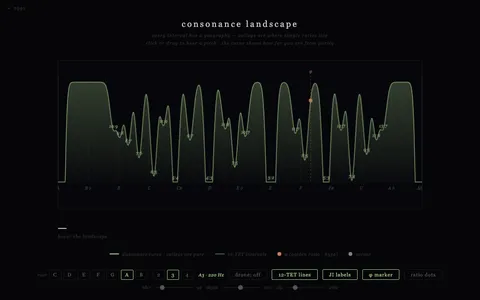
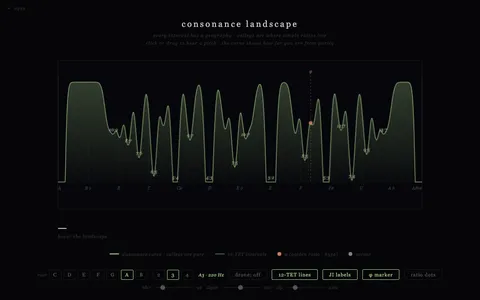
consonance: true meta, audible valleys, 15:8 and 13:8 at the default depth (audit 09-30 B-consonance-1, -2, -3, -4)
Meta said irrational intervals ride the hills; ET 700c sits at 3.3% of the
range, so nearness to a simple ratio is what the curve shows. Drone and
cursor now use the house strings tone (a sine dyad has no partials to beat,
so no valley could be heard); peak still 0.30. Depth 120 (max 240, reaching
16:15), a one-line legend, labels that no longer overlap, A8ve kept inside,
hidden tab mutes.

diff --git a/eggs/consonance.html b/eggs/consonance.html
@@ -3,7 +3,7 @@
 <head>
   <meta charset="UTF-8">
   <meta name="viewport" content="width=device-width, initial-scale=1.0">
-  <meta name="description" content="a dissonance landscape across the octave — simple ratios sink into valleys, irrational intervals ride the hills, and every point is playable by drag">
+  <meta name="description" content="a dissonance landscape across the octave · simple ratios sink into valleys, intervals far from any simple ratio ride the hills, and every point is playable by drag">
   <link rel="icon" type="image/png" sizes="32x32" href="../assets/favicon-32.png">
   <link rel="icon" type="image/png" sizes="16x16" href="../assets/favicon-16.png">
   <link rel="apple-touch-icon" href="../assets/apple-touch-icon.png">
@@ -204,7 +204,7 @@
 <div class="header">
   <h1 class="title">consonance landscape</h1>
   <p class="sub">
-    every interval has a geography &mdash; valleys are where simple ratios live<br>
+    every interval has a geography · valleys are where simple ratios live<br>
     click or drag to hear a pitch · the curve shows how far you are from purity
   </p>
 </div>
@@ -272,8 +272,8 @@
   </div>
   <div class="slider-row">
     depth
-    <input type="range" class="ctrl-range" id="depth-slider" min="4" max="200" value="100">
-    <span id="depth-val">100</span>
+    <input type="range" class="ctrl-range" id="depth-slider" min="4" max="240" value="120">
+    <span id="depth-val">120</span>
   </div>
   <div class="slider-row">
     clip
@@ -282,7 +282,7 @@
   </div>
 </div>
 
-<p class="hint">drag across the landscape · the valleys are where ears rest · esc mutes</p>
+<p class="hint">each ratio p/q digs a valley 1/(p·q) deep · blur = valley width in cents · depth = largest p·q included<br>drag across the landscape with the drone on · near a valley the two tones beat, in it they settle · esc mutes</p>
 
 <script>
 // ── JI ratio library ──────────────────────────────────────
@@ -379,7 +379,7 @@ function buildNearestTable(ratios, nSamples) {
 const N_FULL   = 1200; // curve resolution at rest
 const N_COARSE = 300;  // …and while a slider thumb is moving
 
-let ratios = buildRatios(100); // need height≥88 for 11:8 (11×8=88)
+let ratios = buildRatios(120); // 120 reaches 11:8 (88), 13:8 (104) and 15:8 (120)
 let sigma  = 9;
 let N      = N_FULL;
 let landscape, nearestTable;
@@ -405,9 +405,18 @@ const NOTE_BASE = { C:130.813, D:146.832, E:164.814, F:174.614, G:195.998, A:220
 let droneNote = 'A', droneOct = 3;
 function getDroneFreq() { return NOTE_BASE[droneNote] * Math.pow(2, droneOct - 3); }
 
+// Both voices use the house "strings" tone (eight harmonics). Two pure
+// sines have no partials to coincide, so a sine dyad sounds the same at
+// 5:4 as at 400¢ and the valleys can't be heard. With harmonics, a
+// near-miss beats where partials almost meet and the beating stops in
+// the valley. createPeriodicWave normalizes to a peak of 1, so levels
+// are unchanged: drone 0.18 + cursor 0.12 still peaks at 0.30.
+const TONE = [0, 1, 0.55, 0.38, 0.27, 0.2, 0.15, 0.11, 0.08];
+let toneWave = null;
 function initAudio() {
   if (ac) return;
   ac = new (window.AudioContext || window.webkitAudioContext)();
+  toneWave = ac.createPeriodicWave(new Float32Array(TONE.length), new Float32Array(TONE));
 }
 
 function startDrone() {
@@ -415,7 +424,7 @@ function startDrone() {
   if (ac.state === 'suspended') ac.resume();
   droneOsc = ac.createOscillator();
   droneGain = ac.createGain();
-  droneOsc.type = 'sine';
+  droneOsc.setPeriodicWave(toneWave);
   droneOsc.frequency.value = getDroneFreq();
   droneGain.gain.setValueAtTime(0, ac.currentTime);
   droneGain.gain.setTargetAtTime(0.18, ac.currentTime, 0.05);
@@ -444,7 +453,7 @@ function setCursorPitch(cents) {
   if (!cursorOsc) {
     cursorOsc = ac.createOscillator();
     cursorGain = ac.createGain();
-    cursorOsc.type = 'sine';
+    cursorOsc.setPeriodicWave(toneWave);
     cursorOsc.frequency.value = freq;
     cursorGain.gain.setValueAtTime(0, ac.currentTime);
     cursorGain.gain.setTargetAtTime(0.12, ac.currentTime, 0.02);
@@ -543,7 +552,8 @@ function draw() {
 
       // Label
       g.font = `italic ${9}px Georgia, serif`;
-      g.textAlign = 'center';
+      // the end labels hug the edges instead of hanging off them ("A8ve")
+      g.textAlign = i === 0 ? 'left' : i === 12 ? 'right' : 'center';
       g.fillStyle = 'rgba(138,176,200,0.35)';
       g.fillText(tetLab[i], x, PLOT_BOTTOM + 16);
     }
@@ -582,6 +592,7 @@ function draw() {
     // Find local minima that sink at least a little below the ceiling
     const threshold = maxV - range * 0.04;
     const labeled = new Set();
+    const cands = [];
     for (let i = 4; i < N - 4; i++) {
       if (landscape[i] > threshold) continue;
       const isMin = landscape[i] <= landscape[i-3] &&
@@ -598,14 +609,20 @@ function draw() {
       if (labeled.has(key)) continue;
       labeled.add(key);
 
-      const x  = centsToX(ratio.cents);
-      const y  = valToY(landscape[i]);
-      const label = ratio.key;
-
-      g.font = `italic 9px Georgia, serif`;
-      g.textAlign = 'center';
-      g.fillStyle = 'rgba(160,200,136,0.80)';
-      g.fillText(label, x, Math.max(PLOT_TOP + 2, y - 6));
+      cands.push({ x: centsToX(ratio.cents), v: landscape[i], label: ratio.key });
+    }
+    // deepest valleys claim their space first; a shallower one whose label
+    // would touch an already placed one is left unlabeled
+    g.font = `italic 9px Georgia, serif`;
+    g.textAlign = 'center';
+    g.fillStyle = 'rgba(160,200,136,0.80)';
+    const placed = [];
+    for (const cnd of cands.sort((a, b) => a.v - b.v)) {
+      const m = g.measureText(cnd.label);
+      const half = ((m && m.width) || cnd.label.length * 5) / 2 + 3;
+      if (placed.some(p => Math.abs(p.x - cnd.x) < p.half + half)) continue;
+      placed.push({ x: cnd.x, half });
+      g.fillText(cnd.label, cnd.x, Math.max(PLOT_TOP + 2, valToY(cnd.v) - 6));
     }
   }
 
@@ -857,6 +874,8 @@ document.getElementById('contrast-slider').addEventListener('input', function() 
 document.addEventListener('keydown', e => {
   if (e.key === 'Escape') muteAll();
 });
+// a hidden tab (or an alt-tab mid-drag) mutes rather than droning on
+document.addEventListener('visibilitychange', () => { if (document.hidden) muteAll(); });
 
 window.addEventListener('resize', draw);
 
